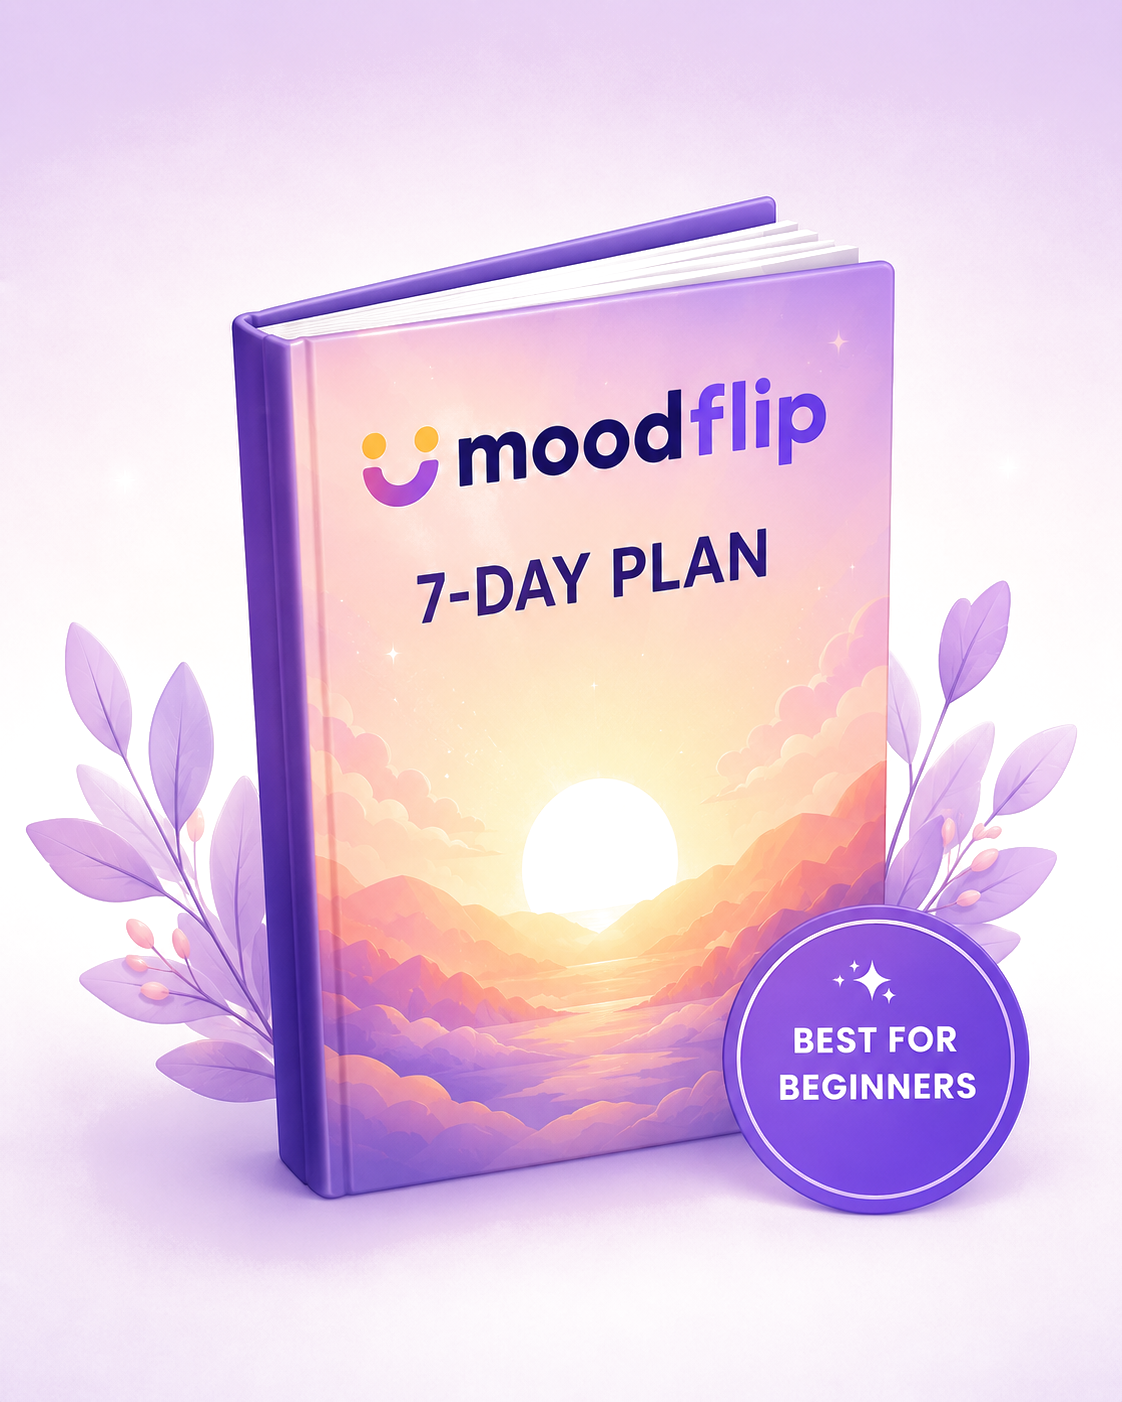
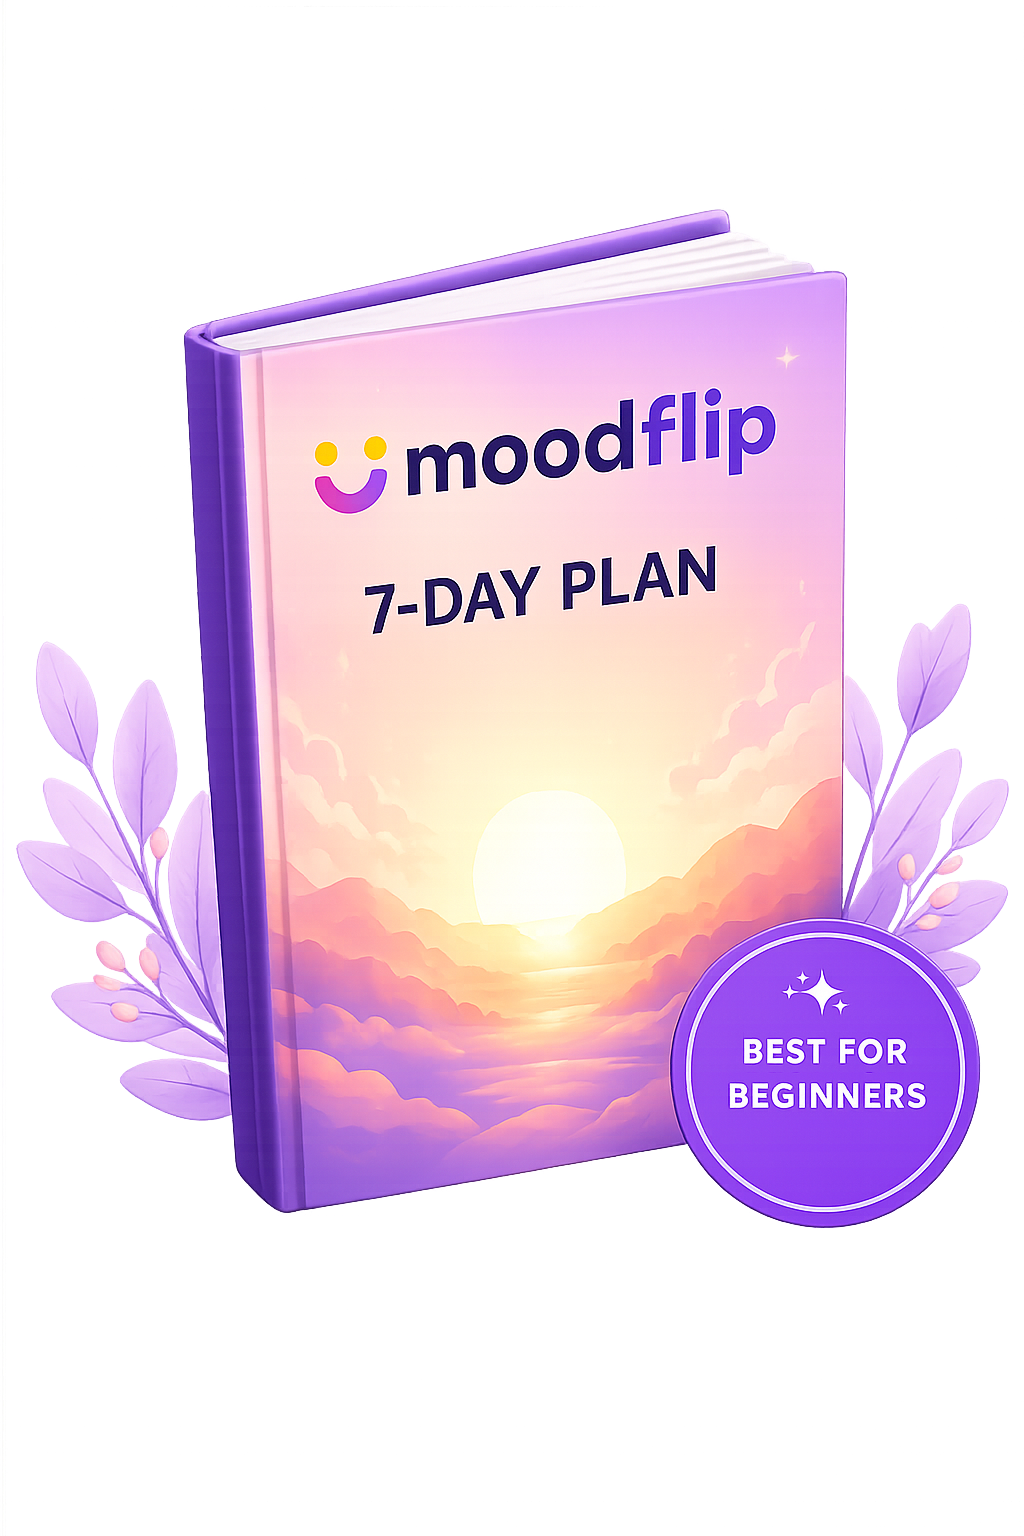
Use exact raw file ChatGPT Image Aug 4, 2026, 01_44_59 AM.png directly without any python modification

diff --git a/components/MoreForYou.tsx b/components/MoreForYou.tsx
@@ -15,7 +15,7 @@ export default function MoreForYou() {
       <div className="rounded-2xl border border-[#BFDBFE] bg-[#EFF6FF] p-4 transition hover:-translate-y-0.5 shadow-sm text-center">
         <div className="w-24 h-32 mx-auto mb-2 flex items-center justify-center">
           <img 
-            src="/7day-book-cover-3d.png?v=5" 
+            src="/7day-book-cover-3d.png?v=6" 
             alt="MoodFlip 7-Day Plan Book" 
             className="w-full h-full object-contain drop-shadow-md hover:scale-105 transition-transform"
           />

diff --git a/app/profile/page.tsx b/app/profile/page.tsx
@@ -169,7 +169,7 @@ export default function UserDashboardPage() {
             {/* 3D BOOK COVER IMAGE (7day-plan-book.png) */}
             <div className="w-28 h-36 mx-auto mb-2 flex items-center justify-center">
               <img 
-                src="/7day-book-cover-3d.png?v=5" 
+                src="/7day-book-cover-3d.png?v=6" 
                 alt="MoodFlip 7-Day Plan Book" 
                 className="w-full h-full object-contain drop-shadow-md hover:scale-105 transition-transform"
               />

diff --git a/app/page.tsx b/app/page.tsx
@@ -418,7 +418,7 @@ export default function HomePage() {
         <section className={styles.planSection}>
           <div className={styles.bookCompact}>
             <img
-              src="/7day-book-cover-3d.png?v=5"
+              src="/7day-book-cover-3d.png?v=6"
               alt="MoodFlip 7-Day Plan Book Cover"
               style={{
                 width: '100%',
